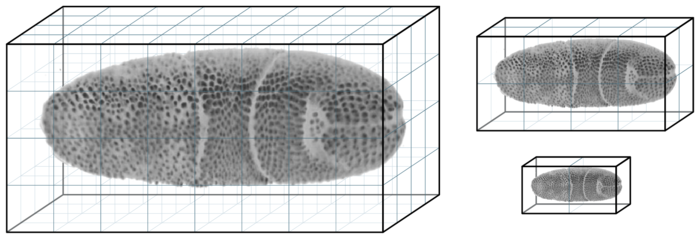
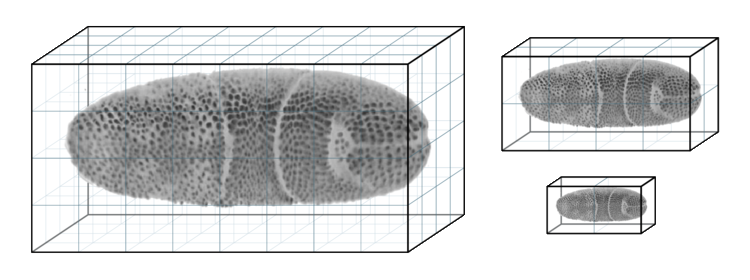
Tweak first tutorial images transparency and size.

diff --git a/docs/partA/getting_started.md b/docs/partA/getting_started.md
@@ -51,7 +51,7 @@ The image data are stored in small chunks corresponding to a neighborhood. As th
 On top of this, the image is also stored as a [multi-scale pyramid](https://en.wikipedia.org/wiki/Pyramid_(image_processing)), to speed-up zooming and unzooming.
 The BDV display component exploits this file format in a clever way, and ensures that the view still answers to user interactions (mouse pan, zoom, clicks ) even if the chunks are not fully loaded.
 
-![BDV image](../imgs/BdvTikz-pyramidblocks.png)
+![BDV image](../imgs/BdvTikz-pyramidblocks.png){align="center" width="50%"}
 <figcaption><i>Illustration of the BDV file format storage strategy. The image is stored over several resolution levels (multi-scale pyramid) and in chunks.</i></figcaption>
 
 
@@ -75,7 +75,7 @@ You can find it on Zenodo here:
 
 It is a zip file that contains 3 files:
 
-``` sh
+```text
     14M  datasethdf5.h5
    2.7K  datasethdf5.settings.xml
    8.7K  datasethdf5.xml
@@ -113,7 +113,7 @@ Then launch the [Fiji updater](https://imagej.net/plugins/updater) and once your
 We will add the [Mastodon update site](https://imagej.net/update-sites/following). 
 You should find the `Mastodon` site in the list.
 
-![image](../imgs/Mastodon_UpdateSite.png)
+![image](../imgs/Mastodon_UpdateSite.png){width="500px" align="center"}
 
 Select it, update Fiji and restart it.
 After restarting, you should find the command _Plugins > Mastodon_ at the bottom of the _Plugins_ menu.
@@ -123,23 +123,23 @@ After restarting, you should find the command _Plugins > Mastodon_ at the bottom
 
 After launching the command, this Mastodon launcher appears.
 
-![The Mastodon launcher.](../imgs/Mastodon_Launcher_01.png){width="50%" align="center"}
+![The Mastodon launcher.](../imgs/Mastodon_Launcher_01.png){width="400px" align="center"}
 
 In our case, we want to create a new project from an existing BDV file. 
 Click on the `new Mastodon project` and make sure the `Browse to a BDV file pair (xml/h5 pair)` option is selected.
 Use the `Browse` button to browse to the XML file location.
 
-![](../imgs/Mastodon_Launcher_02.png)
+![](../imgs/Mastodon_Launcher_02.png){width="500px" align="center"}
 
 Then click the `create` button.
 You should now see the Mastodon main window, that is used to control the project.
 
-![](../imgs/Mastodon_MainWindow.png){width="50%" align="center"}
+![](../imgs/Mastodon_MainWindow.png){width="200px" align="center"}
 
 Click on the `bdv` button. 
 If a BDV window appears, everything is right.
 
-![image](../imgs/Mastodon_BDV.png){width="50%" align="center"}
+![image](../imgs/Mastodon_BDV.png){width="300px" align="center"}
 
 It is almost a regular BDV window and if you already know who to use it and the key bindings you should find your marks quickly. 
 The BDV view displays a *slice* of the image through arbitrary orientation. 
@@ -171,7 +171,7 @@ Also, the basic algorithms are very close to what was in TrackMate, but they hav
 Mastodon windows have their own menus.
 The detection wizard can be launched from the _Plugins > Tracking > Detection..._ menu item. You should have a window like the one depicted below:
 
-![First panel of the detection wizard.](../imgs/Mastodon_DetectionWizard_01.png){width="50%" align="center"}
+![First panel of the detection wizard.](../imgs/Mastodon_DetectionWizard_01.png){width="300px" align="center"}
 
 Like for TrackMate, the automated tracking user interface uses *wizards*
 to enter parameters, select algorithms, *etc.* 
@@ -234,8 +234,8 @@ Try with 10 pixels for `Estimated diameter` and 0 for the `Quality threshold`.
 The click on the `Preview` button. 
 A preview panel should open shortly, showing detection results on the current frame:
 
-![Previewing detection results.](../imgs/Mastodon_DoGconfig1.png "fig:"){width="50%"} 
-![Previewing detection results.](../imgs/Mastodon_DoGconfig2.png "fig:"){width="40%"}
+![Previewing detection results.](../imgs/Mastodon_DoGconfig1.png "fig:"){width="35%"} 
+![Previewing detection results.](../imgs/Mastodon_DoGconfig2.png "fig:"){width="50%"}
 
 These values are close to be good but not quite.
 You can see that the diameter value is too small to properly grasps the elongated shape of the cells along Z (the BDV view on the left panel above is rotated to show a YZ
@@ -250,7 +250,7 @@ Note that you can run the preview on any frame. You just have to move the time s
 Once you are happy with the parameters, click on the button. All the frames specified in the ROI (if any) will be processed.
 In our case detection should conclude quickly and the following panel should appear:
 
-![Detectionresults.](../imgs/Mastodon_DetectionResuts.png){align="center"}
+![Detectionresults.](../imgs/Mastodon_DetectionResuts.png){align="center" width="250px"}
 
 We now have more than 1000 cells detected and this concludes the detection step.
 Click on the `Finish` button, and the wizard will disappear.
@@ -280,7 +280,7 @@ And also like for detection, the linking algorithms currently available in Masto
 Launch the wizard from the GUI, with the _Plugins > Tracking > Linking.. ._ menu item. 
 The first panel you are shown lets you select what spots to include in linking:
 
-![The first panel of the linking wizard.](../imgs/Mastodon_LinkingWizard_01.png){align="center"}
+![The first panel of the linking wizard.](../imgs/Mastodon_LinkingWizard_01.png){align="center" width="250px"}
 
 There are two modes:
 
@@ -344,7 +344,7 @@ For instance, if you know that your objects move by at most 5 µm from one fram
 Distances are expressed in whatever physical units the BDV dataset specified. 
 In our case it is pixels.
 
-![image](../imgs/Mastodon_LinkingWizard_03.png){align="center"}
+![image](../imgs/Mastodon_LinkingWizard_03.png){align="center" width="250px"}
 
 In practical cases, it can happen that the detection step might miss an object in some frames, then detect again later. 
 These gaps will result in generating several small tracks for a single objects, which is one of the main course of spurious results when analyzing tracks. 
@@ -361,7 +361,7 @@ Click `Next` and the linking will proceed.
 Click on the `Finish` button to end the tracking process.
 If you have a BDV window opened, it should be updated with the tracking results, like in image below.
 
-![How tracking results are displayed in BDV views.](../imgs/Mastodon_LinkingResults.png){align="center"}
+![How tracking results are displayed in BDV views.](../imgs/Mastodon_LinkingResults.png){align="center"  width="50%"}
 
 
 By default the tracks are represented by colored lines, extending backward in time. 
